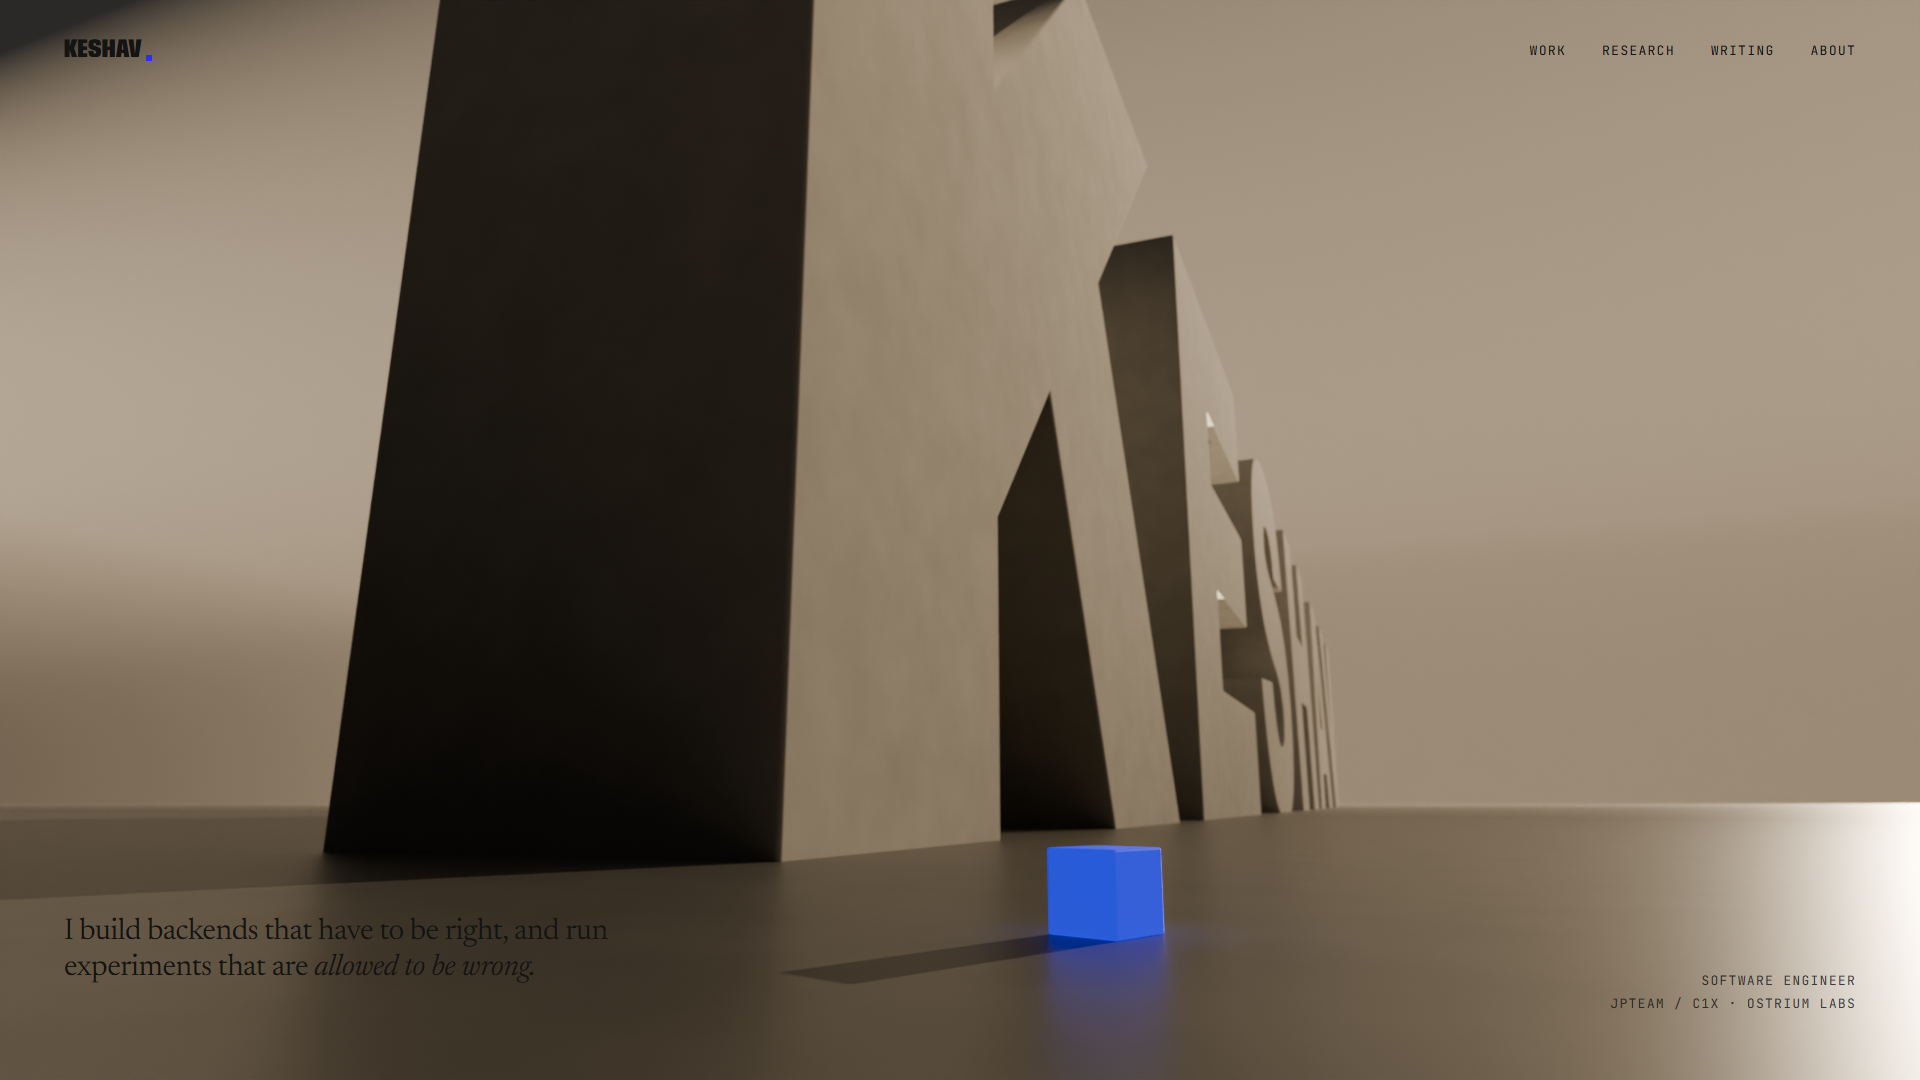
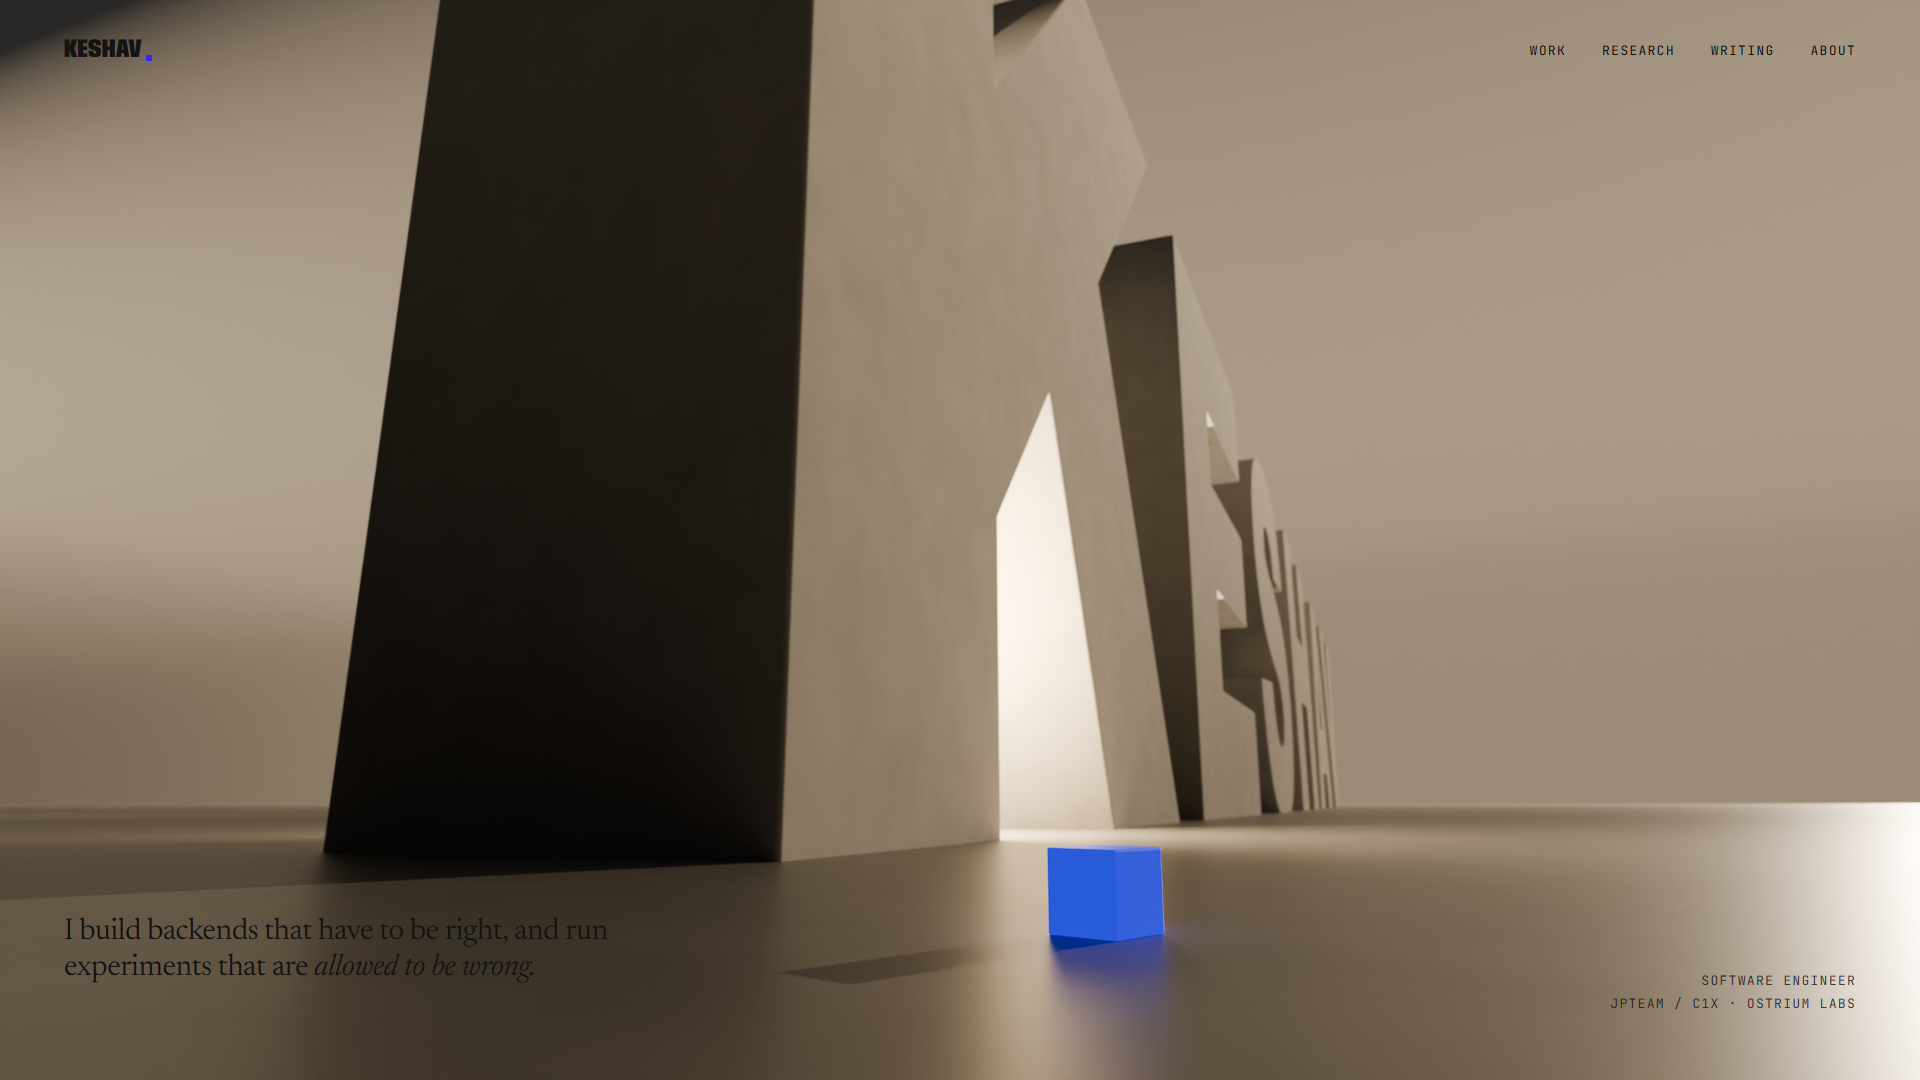
art: light the K's counter as Threshold's focal event; versioned previews

Changed region(s): [[0.4688, 0.3667, 0.8125, 1.0], [0.0938, 0.7639, 0.1875, 0.7944]]

diff --git a/art/threshold.py b/art/threshold.py
@@ -54,6 +54,29 @@ else:
     c.sun_toward(sc, 0.7, (0.55, 0.66, 1.0), (-0.3, -0.94, -0.35), angle_deg=2)
     c.haze(sc, (0, 75, 12), (260, 110, 28), 0.05, (0.4, 0.48, 0.78))
 
+# The focal event: a warm light inside the K's counter, so only the void's inner walls and floor glow.
+door = bpy.data.objects.new("door", bpy.data.lights.new("door", "POINT"))
+sc.collection.objects.link(door)
+door.data.shadow_soft_size = 0.6
+door.data.energy = 1800 if dawn else 1000
+door.data.color = (1.0, 0.78, 0.52) if dawn else (0.6, 0.7, 1.0)
+door.location = (0.0, 7.7, 1.0)
+
 cam = c.camera(sc, (4.0, -0.9, 0.26), (0, 0, 0), 20, focus=2.4, fstop=2.2)
 c.aim(cam, (-0.6, 11.0, 3.4))
-c.render(sc, a["out"])
+if os.environ.get("PROBE"):
+    # Ray-cast through given pixels to find where the counter actually is in world space.
+    from bpy_extras.view3d_utils import region_2d_to_vector_3d  # noqa: F401 (kept for reference)
+    from mathutils import Vector
+    deps = bpy.context.evaluated_depsgraph_get()
+    cam.data.sensor_fit = "HORIZONTAL"
+    frame = [cam.matrix_world @ v for v in cam.data.view_frame(scene=sc)]
+    for px, py in [(0.55, 0.45), (0.55, 0.62), (0.57, 0.7), (0.53, 0.55)]:
+        top = frame[3].lerp(frame[0], px)
+        bot = frame[2].lerp(frame[1], px)
+        target = top.lerp(bot, py)
+        d = (target - cam.location).normalized()
+        hit, loc, nrm, idx, obj, mat = sc.ray_cast(deps, cam.location, d)
+        print("PROBE", px, py, hit, obj.name if obj else None, tuple(round(v, 2) for v in loc), tuple(round(v, 2) for v in nrm))
+else:
+    c.render(sc, a["out"])
